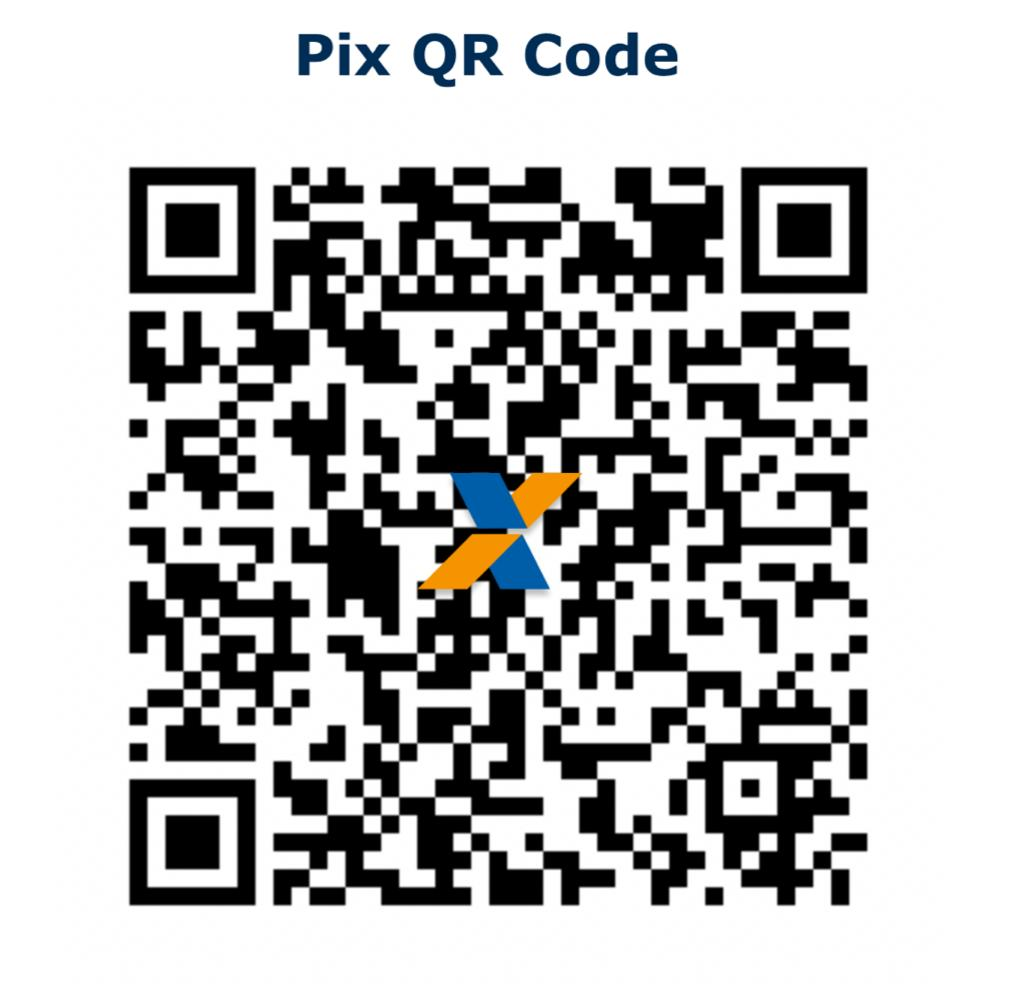
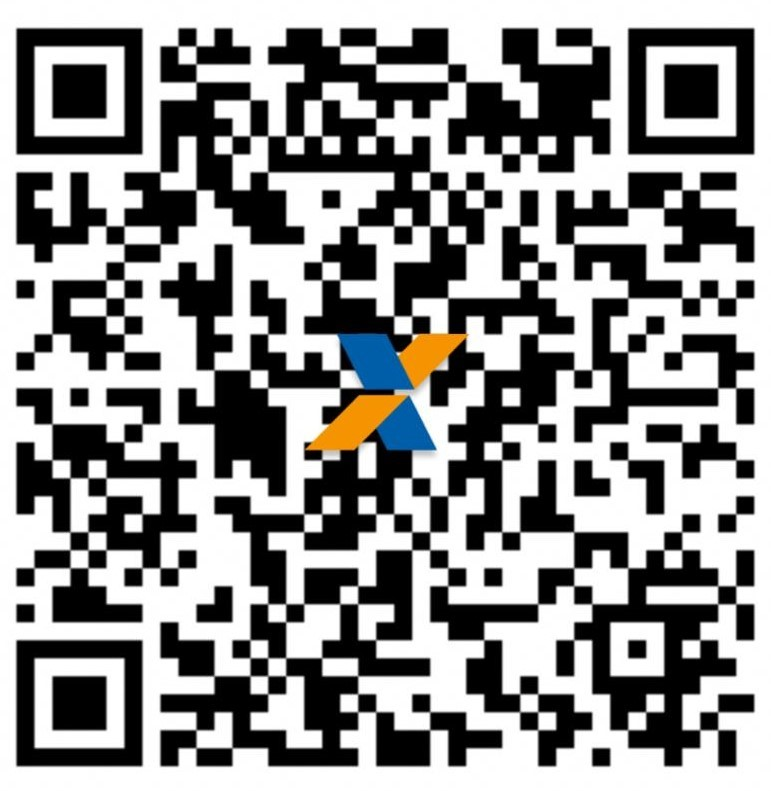
adujsting-index

diff --git a/index.html b/index.html
@@ -1,5 +1,5 @@
 <!DOCTYPE html>
-<html lang="en">
+<html lang="en, pt-BR">
 <head>
     <meta charset="UTF-8">
     <meta name="viewport" content="width=device-width, initial-scale=1.0">
@@ -128,23 +128,30 @@
     </main>
 
     <div class="main-2">
-      <h2>Payment Methods:</h2>
-      <h3>Non-Brazilian Students:</h3>
+      <h2 style="font-size: 2.2rem;">Payment Methods</h2>
+      <h3>🌍 Non-Brazilian Students:</h3>
       <p>Currently, debit and credit card payments are suspended as we are working to resolve the issue. If you are located outside of Brazil, we kindly request that you contact us via WhatsApp:</p><br/>
 
       <a href="https://wa.me/5564992521429?" class="glow-button">
         <img id="whatsapp-img" src="./public/assets/images/WhatsAppButtonWhiteMedium.png">
       </a>
       <br/>
-      <h3 style="text-align: center;">Brazilian Students:</h3>
+
+      <br/>
+      <hr/>
+      <br/>
+
+      <h3 style="text-align: center;">🇧🇷 Brazilian Students:</h3>
       <div id="caixa-qr-code-container">
         <img id="caixa-qr-code" src="./public/assets/images/caixa-qr-code.jpg" draggable="false" alt="Non-draggable image">
+        <p style="text-align: center; font-weight: bold;">📲 <em>Scan the QR code using your bank's application.</em></p>
         <h4 class="h4">Chave pix: aaadjrbr@gmail.com</h4>
-        <h5><em>Scan the QR code using your bank's application.</em><br />*Make sure to send the receipt on WhatsApp.</h5>
-        <a href="https://wa.me/5564992521429?" class="glow-button">
-          <img id="whatsapp-img" src="./public/assets/images/WhatsAppButtonWhiteMedium.png">
-        </a>
+        <p style="text-align: center; font-weight: bold;">*Make sure to send the receipt on <a href="https://wa.me/5564992521429?">WhatsApp</a>.</p>
+        <p style="text-align: center;">
+          <sub>🇧🇷 Ao efetuar o pagamento, você está concordando com nossa <a href="./public/brazilian-students.html">nova política de pagamentos</a>. <br/>🇺🇸 By completing the payment, you are agreeing to our <a href="./public/brazilian-students.html">new payment policy</a>.</sub>
+        </p>      
       </div>
+
 <hr/><br/>
       <div style="display: flex; justify-content: center;">
         <blockquote class="instagram-media" data-instgrm-permalink="https://www.instagram.com/p/Cw8GJq7uZt5/?utm_source=ig_embed&amp;utm_campaign=loading" data-instgrm-version="14" style="background:#FFF; border:0; border-radius:3px; box-shadow:0 0 1px 0 rgba(0,0,0,0.5),0 1px 10px 0 rgba(0,0,0,0.15); max-width:540px; min-width:326px; padding:0; width:99.375%; width:-webkit-calc(100% - 2px); width:calc(100% - 2px);">

diff --git a/public/cs/style.css b/public/cs/style.css
@@ -110,15 +110,15 @@ footer {
   justify-content: center;
   align-items: center;
   flex-direction: column;
-  padding: 30px;
+  padding: 10px;
 }
 
 #caixa-qr-code {
   height: 150px;
-  border-radius: 20px;
+  border-radius: 3px;
   width: auto;
   margin-top: 5px;
-  margin-bottom: 10px;
+  margin-bottom: 5px;
 }
 
 p {
